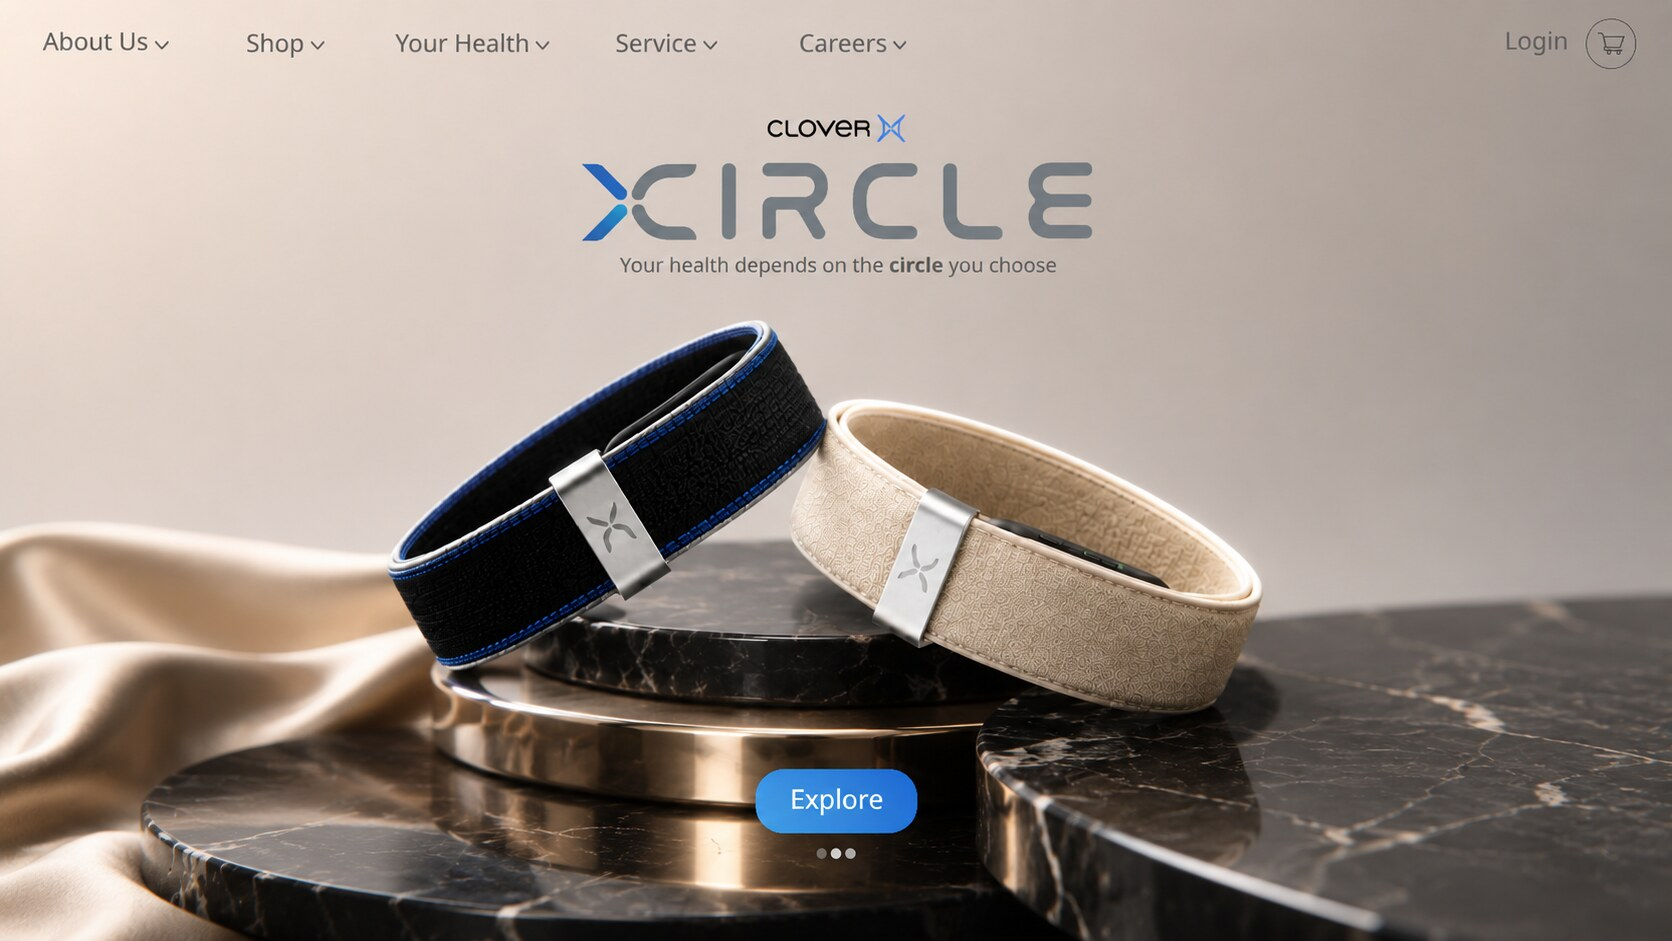
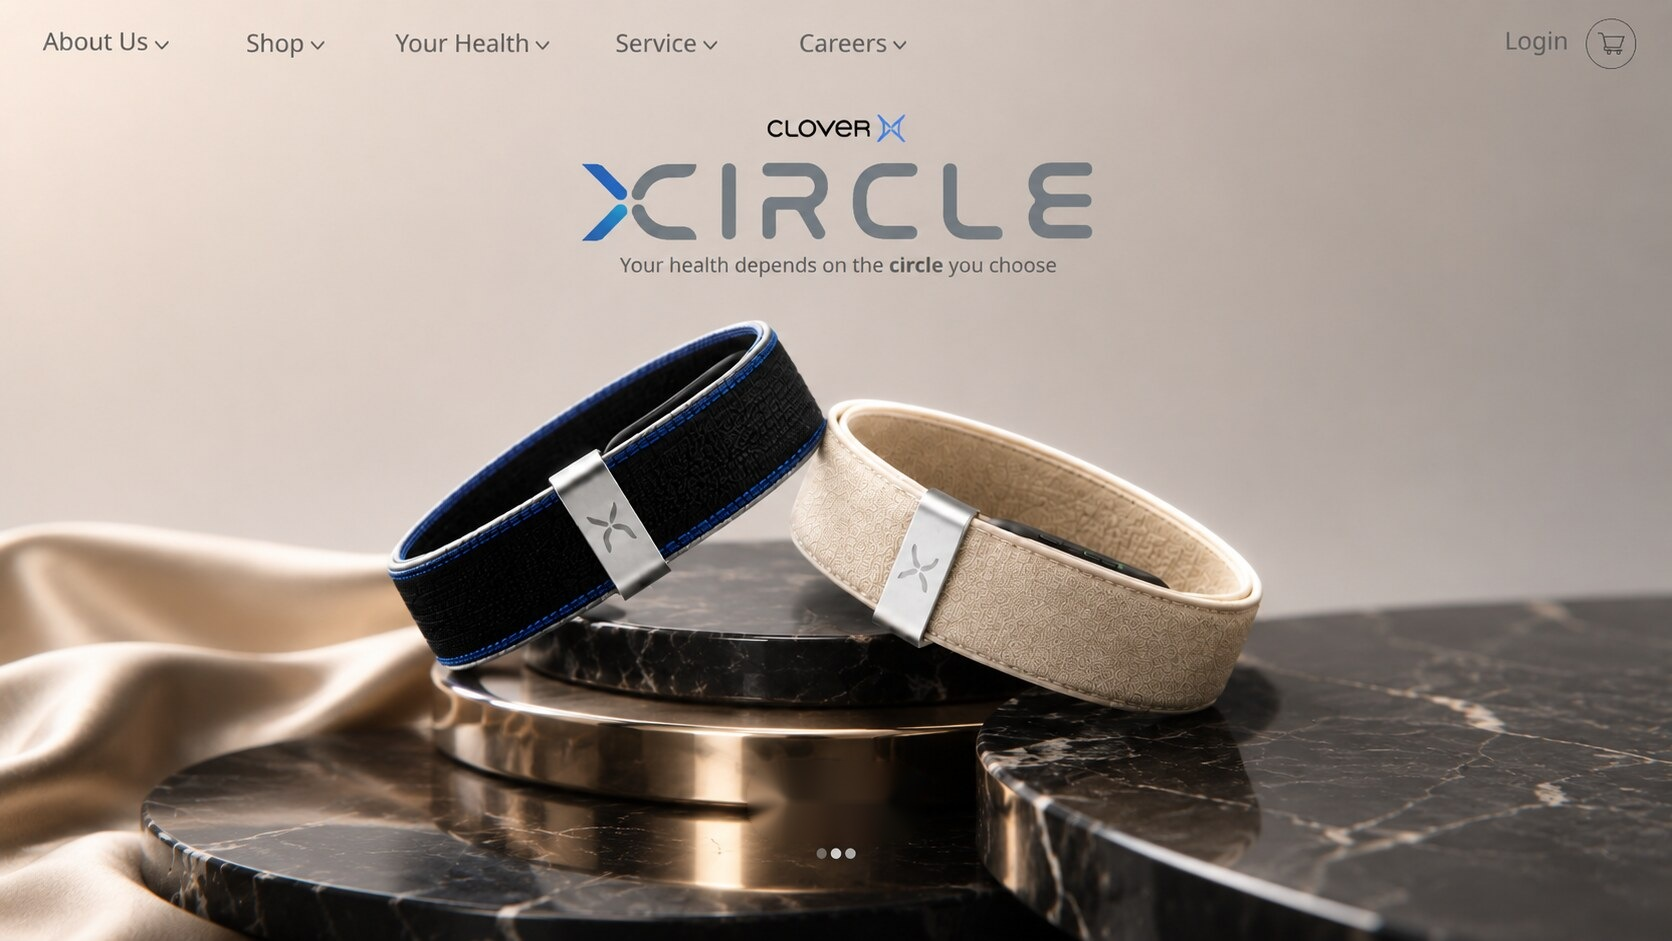
Hero fits viewport + smaller Explore (pill removed from image); mobile side spacing

Changed region(s): [[0.4354, 0.8013, 0.5598, 0.8937]]

diff --git a/index.html b/index.html
@@ -7,6 +7,8 @@ body{background:#fff;font-family:"Manrope",system-ui,-apple-system,sans-serif}
 .xwrap{max-width:1440px;margin:0 auto}
 .xsec{position:relative;font-size:0;line-height:0}
 .xsec img{width:100%;display:block}
+/* Hero พอดีจอตอนเข้าเว็บ (เห็นเต็มไม่ตัดปุ่ม/จุด) — จำกัดความกว้างตามความสูงจอ */
+#hero{max-width:min(1440px,164vh);margin:0 auto}
 #brands,#features{margin-top:52px}
 #membership{margin:30px 0}
 .hot{position:absolute;display:block;background:transparent;border:0;cursor:pointer;padding:0;z-index:2}
@@ -33,13 +35,13 @@ body{background:#fff;font-family:"Manrope",system-ui,-apple-system,sans-serif}
 
 /* ===================== MOBILE ===================== */
 .mob{display:none}
-.mtopbar{display:flex;align-items:center;justify-content:space-between;padding:14px 18px;background:#fff;position:sticky;top:0;z-index:20;border-bottom:1px solid #f0f0f2}
+.mtopbar{display:flex;align-items:center;justify-content:space-between;padding:14px 6px;background:#fff;position:sticky;top:0;z-index:20;border-bottom:1px solid #f0f0f2;margin-bottom:12px}
 .mtopbar .mburger{width:26px;height:26px;display:flex;flex-direction:column;justify-content:center;gap:5px;cursor:pointer;background:none;border:0;padding:0}
 .mtopbar .mburger span{display:block;height:2px;width:24px;background:#2a2c2e;border-radius:2px}
 .mtopbar .mlogo{font-weight:800;font-size:17px;letter-spacing:1px;color:#22262b;display:flex;align-items:center;gap:5px}
 .mtopbar .mlogo b{color:#2E7FE4}
 .mtopbar .mcart{width:34px;height:34px;border:1.5px solid #cdd3db;border-radius:50%;display:flex;align-items:center;justify-content:center;color:#5a6472;text-decoration:none}
-.msec{position:relative;font-size:0;line-height:0}
+.msec{position:relative;font-size:0;line-height:0;border-radius:16px;overflow:hidden}
 .msec img{width:100%;display:block}
 .mband,.mfeat{margin-top:14px}
 /* Membership block (มือถือ) — สร้างด้วย HTML ปุ่มจริงมีมิติ */
@@ -57,7 +59,7 @@ body{background:#fff;font-family:"Manrope",system-ui,-apple-system,sans-serif}
 
 @media(max-width:820px){
   .desk{display:none}
-  .mob{display:block;max-width:520px;margin:0 auto}
+  .mob{display:block;max-width:520px;margin:0 auto;padding:0 12px 20px}
 }
 </style></head>
 <body>
@@ -70,7 +72,7 @@ body{background:#fff;font-family:"Manrope",system-ui,-apple-system,sans-serif}
     <img src="hero.jpg" alt="XIRCLE">
     <a class="hot" href="/preorder" style="left:12.5%;top:1.5%;width:7%;height:7%" aria-label="Shop"></a>
     <a class="hot" href="/preorder" style="left:93%;top:2%;width:4.5%;height:8%" aria-label="ตะกร้า"></a>
-    <a class="btn3d blue" href="/preorder" style="left:45%;top:81.4%;width:10%;height:7.4%;font-size:clamp(12px,1.45vw,21px)">Explore</a>
+    <a class="btn3d blue" href="/preorder" style="left:46.2%;top:82.2%;width:7.6%;height:5.6%;font-size:clamp(11px,1.15vw,16px)">Explore</a>
   </div>
 
   <!-- BRAND CARDS -->
